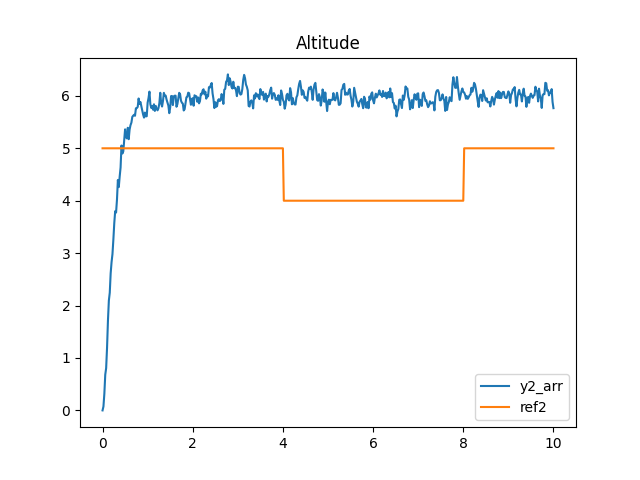
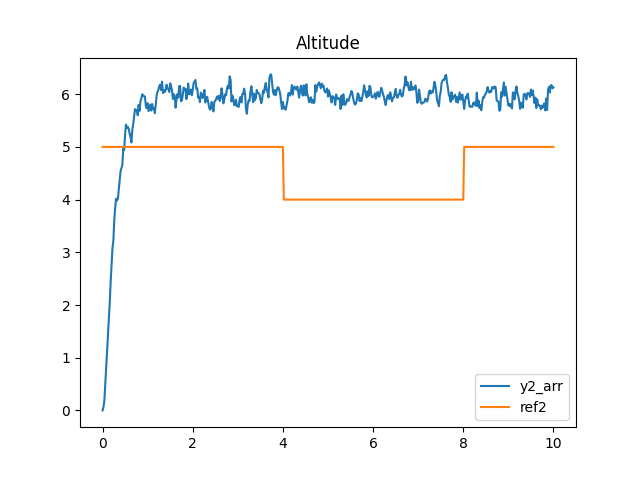
auto upload

diff --git a/src/examples/actuator_attack/linear/rlc_circuit_replay.py b/src/examples/actuator_attack/linear/rlc_circuit_replay.py
@@ -62,7 +62,7 @@ class RlcCircuit(Simulator):
 if __name__ == "__main__":
     max_index = 500
     dt = 0.02
-    ref = [np.array([2])] * 201 + [np.array([3])] * 200 + [np.array([2])] * 100
+    ref = [np.array([2])] * 200 + [np.array([3])] * 200 + [np.array([2])] * 101
 
     noise = {
         'process': {
@@ -74,18 +74,18 @@ if __name__ == "__main__":
 
     from cpsim import Attack
 
-    params={'start': 0, 'end': 10, 'bias': 20, 'step': 1}
+    params={'start': 0, 'end': 10, 'bias': 0.1, 'step': 1}
     bias_attack = Attack('replay', params, max_index)
-    ip = RlcCircuit('test', dt, max_index)
+    ip = RlcCircuit('test', dt, max_index, noise)
     for i in range(0, max_index):
         assert rlc_circuit.cur_index == i
         rlc_circuit.update_current_ref(ref[i])
         # attack here
         # print("og:",rlc_circuit.cur_feedback)
-        bias_vector = bias_attack.launch(rlc_circuit.cur_feedback, rlc_circuit.cur_index, rlc_circuit.states)
-        rlc_circuit.cur_feedback = bias_vector
+        u = bias_attack.launch(rlc_circuit.cur_u, rlc_circuit.cur_index, rlc_circuit.inputs)
+        # rlc_circuit.cur_feedback = bias_vector
         # print("bias:",bias_vector)
-        rlc_circuit.evolve()
+        rlc_circuit.evolve(u=u)
     # print results
     import matplotlib.pyplot as plt
 
@@ -93,56 +93,7 @@ if __name__ == "__main__":
     ref = [x[0] for x in rlc_circuit.refs[:max_index + 1]]
     y_arr = [x[0] for x in rlc_circuit.outputs[:max_index + 1]]
 
-    plt.plot(t_arr, y_arr, t_arr, ref)
     plt.ylim(-.1, 3.1)
+    plt.plot(t_arr, y_arr, t_arr, ref)
+    plt.savefig('./figs/linear/RLC-circuit.png')
     plt.show()
-
-
-# if __name__ == "__main__":
-#     max_index = 500
-#     dt = 0.02
-#     ref = [np.array([2])] * 201 + [np.array([3])] * 200 + [np.array([2])] * 100
-#     noise = {
-#         'process': {
-#             'type': 'white',
-#             'param': {'C': np.eye(2) * 0.01}
-#         }
-#     }
-#     # bias attack example
-#     from cpsim import Attack
-
-#     # bias = np.array([0, 0, 0, 0, 0, 0, 0, 0, 3, 0, 0.2, 0.1])
-#     params={'start': 0, 'end': 10, 'bias': 0.1, 'step': 1}
-#     bias_attack = Attack('replay', params, 300)
-#     ip = RlcCircuit('test', dt, max_index)
-#     for i in range(0, max_index + 1):
-#         assert ip.cur_index == i
-#         ip.update_current_ref(ref[i])
-#         # attack here
-#         ip.cur_feedback = bias_attack.launch(ip.cur_feedback, ip.cur_index, ip.states)
-#         ip.evolve()
-#     # 定义数据
-    # t_arr = np.linspace(0, 10, max_index + 1)
-    # ref2 = [x[0] for x in rlc_circuit.refs[:max_index + 1]]
-    # y2_arr = [x[0] for x in rlc_circuit.outputs[:max_index + 1]]
-    # u_arr = [x[0] for x in rlc_circuit.inputs[:max_index + 1]]
-
-    # import matplotlib.pyplot as plt
-    # import numpy as np
-
-    # # 第一个图
-    # fig1, ax1 = plt.subplots()
-    # ax1.set_title('Altitude')
-    # ax1.plot(t_arr, y2_arr, label='y2_arr')
-    # ax1.plot(t_arr, ref2, label='ref2')
-    # ax1.legend()
-    # plt.savefig('RLC-altitude.png')
-    # plt.show()
-
-    # # 第二个图
-    # fig2, ax2 = plt.subplots()
-    # ax2.set_title('u-force')
-    # ax2.plot(t_arr, u_arr, label='u_arr')
-    # ax2.legend()
-    # plt.savefig('RLC-uforce.png')
-    # plt.show()

diff --git a/src/examples/actuator_attack/linear/aircraft_pitch_replay.py b/src/examples/actuator_attack/linear/aircraft_pitch_replay.py
@@ -70,7 +70,9 @@ class AircraftPitch(Simulator):
 
 
 if __name__ == "__main__":
+    from cpsim import Attack
     max_index = 1500
+    replay_num = 1500
     dt = 0.02
     ref = [np.array([0.2])] * 1501
     noise = {
@@ -79,21 +81,26 @@ if __name__ == "__main__":
             'param': {'C': np.eye(3) * 0.00001}
         }
     }
+    params={'start': 0, 'end': 10, 'bias': 0.1, 'step': 1}
+    bias_attack = Attack('replay', params, replay_num)
     aircraft_pitch = AircraftPitch('test', dt, max_index, noise)
     for i in range(0, max_index + 1):
         assert aircraft_pitch.cur_index == i
         aircraft_pitch.update_current_ref(ref[i])
         # attack here
-        aircraft_pitch.evolve()
+        u = bias_attack.launch(aircraft_pitch.cur_u, aircraft_pitch.cur_index, aircraft_pitch.inputs)
+        aircraft_pitch.evolve(u)
     # print results
     import matplotlib.pyplot as plt
 
     t_arr = np.linspace(0, 10, max_index + 1)
     ref = [x[0] for x in aircraft_pitch.refs[:max_index + 1]]
     y_arr = [x[0] for x in aircraft_pitch.outputs[:max_index + 1]]
-
     plt.plot(t_arr, y_arr, t_arr, ref)
+    plt.savefig(f'./figs/linear/aircraft.png')
     plt.show()
 
     u_arr = [x[0] for x in aircraft_pitch.inputs[:max_index + 1]]
     plt.plot(t_arr, u_arr)
+    plt.savefig(f'./figs/linear/aircraft-force.png')
+    plt.show()

diff --git a/src/examples/actuator_attack/linear/quadrotor_replay.py b/src/examples/actuator_attack/linear/quadrotor_replay.py
@@ -130,18 +130,22 @@ if __name__ == "__main__":
             'param': {'C': np.eye(12) * 0.001}
         }
     }
+    from cpsim import Attack
+    params={'start': 0, 'end': 10, 'bias': 0.1, 'step': 1}
+    bias_attack = Attack('replay', params, max_index)
     quadrotor = Quadrotor('test', dt, max_index, None)
     for i in range(0, max_index + 1):
         assert quadrotor.cur_index == i
         quadrotor.update_current_ref(ref[i])
         # attack here
-        quadrotor.evolve()
+        u = bias_attack.launch(quadrotor.cur_u, quadrotor.cur_index, quadrotor.inputs)
+        quadrotor.evolve(u=u)
     # print results
     import matplotlib.pyplot as plt
 
     t_arr = np.linspace(0, 10, max_index + 1)
     ref = [x[0] for x in quadrotor.refs[:max_index + 1]]
     y_arr = [x[5] for x in quadrotor.outputs[:max_index + 1]]
-
     plt.plot(t_arr, y_arr, t_arr, ref)
+    plt.savefig('./figs/linear/quadrotor.png')
     plt.show()

diff --git a/src/examples/actuator_attack/linear/motor_replay.py b/src/examples/actuator_attack/linear/motor_replay.py
@@ -91,7 +91,7 @@ if __name__ == "__main__":
     # ip = MotorSpeed('test', dt, max_index, noise)
     from cpsim import Attack
     params={'start': 0, 'end': 10, 'bias': 0.1, 'step': 1}
-    delay_attack = Attack('replay', params, 500)
+    bias_attack = Attack('replay', params, 500)
     ip = MotorSpeed('test', dt, max_index, noise)
 
 
@@ -99,7 +99,7 @@ if __name__ == "__main__":
         assert ip.cur_index == i
 
         ip.update_current_ref(ref[i])
-        u = delay_attack.launch(ip.cur_u, ip.cur_index, ip.inputs)
+        u = bias_attack.launch(ip.cur_u, ip.cur_index, ip.inputs)
         ip.evolve(u=u)
     # print results
     import matplotlib.pyplot as plt

diff --git a/src/examples/actuator_attack/nonlinear/continuous_stirred_tank_reactor_replay.py b/src/examples/actuator_attack/nonlinear/continuous_stirred_tank_reactor_replay.py
@@ -188,12 +188,12 @@ if __name__ == "__main__":
     y_arr = [x[1] for x in cstr_model.outputs[:max_index + 1]]
 
     plt.title("Concentration of A in CSTR (mol/m^3)")
-    plt.savefig('./figs/nonlinear/CSTR-concentration.png')
     plt.plot(t_arr, y_arr, t_arr, ref)
+    plt.savefig('./figs/nonlinear/CSTR-concentration.png')
     plt.show()
 
     u_arr = [x[0] for x in cstr_model.inputs[:max_index + 1]]
     plt.title("Temperature in CSTR (K)")
-    plt.savefig('./figs/nonlinear/CSTR-temperature.png')
     plt.plot(t_arr, u_arr)
+    plt.savefig('./figs/nonlinear/CSTR-temperature.png')
     plt.show()
